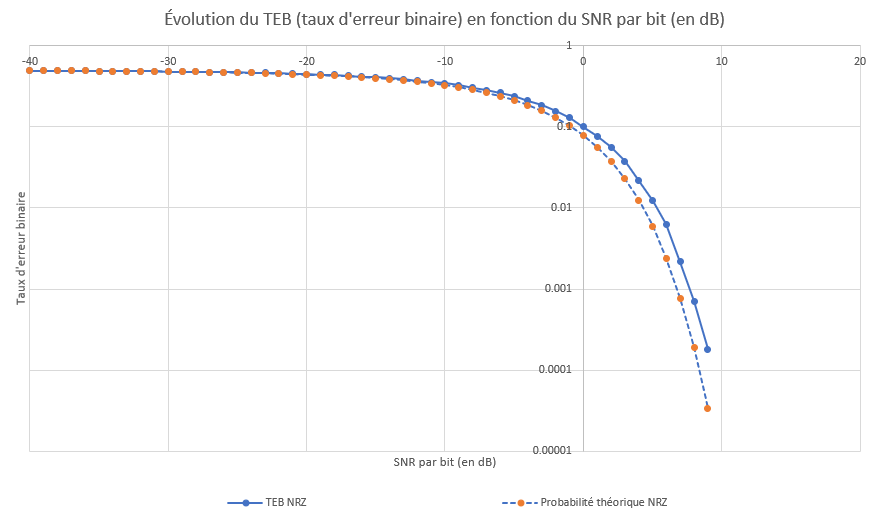
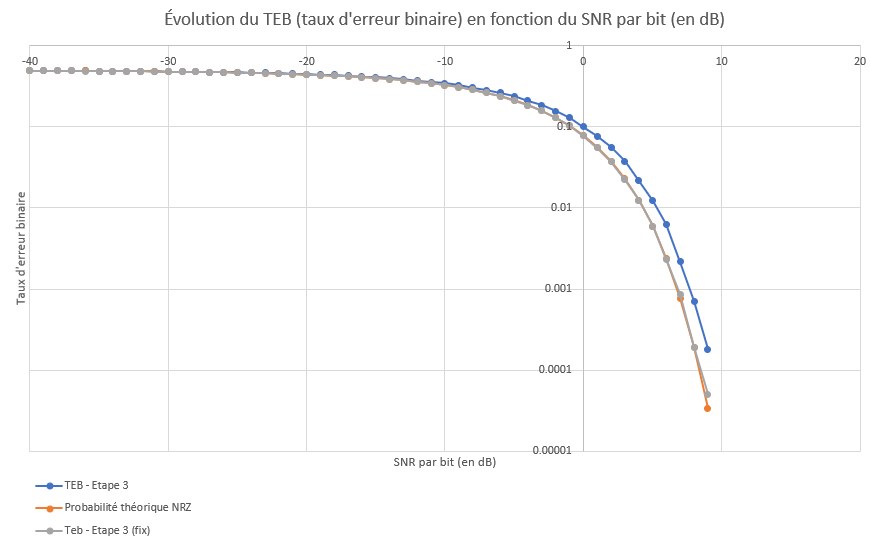
docs: Livrable Tex

diff --git a/livrable/chapters/etape4.tex b/livrable/chapters/etape4.tex
@@ -1,0 +1,158 @@
+\section{TP4 : Transmission non-idéale, avec trajets multiples}
+\sectionmark{TP4 : Transmission non-idéale, avec trajets multiples}
+
+\subsection{Transmission non idéale avec divers bruits réels}
+
+\subsubsection{Introduction}
+
+Dans la continuité des étapes précédentes, l’objectif principal de cette simulation est d'étudier le comportement du système de transmission en lui-même. Cette fois-ci, le transmetteur est bruité selon un ou plusieurs schémas de perturbations aléatoires rencontrées dans la nature. Des modèles physiques de bruit seront considérés à ce stade tels que : trajets-multiples, dispersion chromatique, bruit électronique (thermique, quantique).
+
+
+\begin{figure}[H]
+    \centering
+    \includegraphics[width=0.7\textwidth]{img/etape4a_trajets_multiples.png}
+    \caption{Trajets multiples}
+    \label{fig:trajets_multiples}
+\end{figure}
+
+Nous avons précédemment implémenté une chaîne de transmission composée d'éléments analogiques et logiques, avec des CAN (Convertisseurs Analogique-Numérique) modélisant les codages NRZ, NRZT et RZ. Par la suite, nous avons réalisé des modifications de manière à ajouter bruit blanc additif gaussien (AWGN – Additive white Gaussian noise) au niveau du transmetteur, pour modéliser un comportement plus proche de la réalité. Cette nouvelle étape consistera à implémenter des signaux bruités décalés dans le temps, d'un décalage $\tau$. Cette section aura vocation à présenter les éléments pris en compte, leur implémentation dans le logiciel et une interprétation physique des résultats obtenus.
+
+\subsubsection{Améliorations}
+
+Avant d'aborder les explications concernant nos décisions en matière d'implémentation à l'étape 4, nous souhaitons débuter par un examen des améliorations apportées au code de l'étape 3. Pendant la phase où nous avons tracé les courbes de TEB en fonction du SNR, nous avons constaté que le simulateur était particulièrement lent lors de simulations impliquant un grand nombre de bits. Après avoir analysé notre code, nous avons observé que notre codeur NRZT (qui était le scénario le plus défavorable) avait une complexité algorithmique de l'ordre de $O(n^{3})$, tandis que les autres codeurs que nous avions mis en œuvre avaient des complexités de l'ordre de $O(n^{2})$.
+
+Nous avons fait le choix de réécrire l'ensemble de nos codeurs afin d'obtenir une bien meilleure complexité algorithmique et pouvoir lancer des simulations sur un nombre important de bits. La réécriture des codeurs nous a permis d'atteindre une complexité algorithmique en $O(n)$ sur l'ensemble des codeurs. Cependant, cela n'a pas été une tâche aisée pour tous les codeurs, car nous avons rencontré des difficultés particulières lors de la mise en œuvre du codage NRZT. Plus précisément, les données générées ne présentaient pas les bonnes dimensions, ce qui se traduisait par une récupération incorrecte d'informations en sortie. Un problème est survenu lorsque le nombre d'échantillons par bit n'était pas divisible par 3, ce qui entraînait une perte d'échantillons.
+
+\subsubsection{Réalisation}
+
+\vspace{0,5cm}
+Pour apercevoir les nouvelles implémentations, il faudra utiliser l'option suivante :
+
+Le paramètre \texttt{-ti dt ar} permet l'utilisation d’une transmission analogique multi-trajets (cf . ‘trajets indirects’) :
+     \begin{itemize}
+        \item \texttt{dt} : précise le décalage temporel (en nombre d’échantillons) entre le trajet indirect du signal et le trajet direct
+        \item \texttt{ar} : précise l’amplitude relative du signal du trajet indirect par rapport à celle du signal du trajet direct.
+    \end{itemize}
+
+\vspace{0,5cm}
+Les \texttt{dt} et \texttt{ar} doivent être respectivement une valeur entière et une valeur flottante.
+Plusieurs couples de valeurs (5 au maximum) peuvent être mis après le $\texttt{-ti}$ pour simuler autant de trajets indirects.
+Par défaut le simulateur ne simule pas de trajets indirects, ce qui correspond à des valeurs 0 et 0,0f pour tous les trajets indirects.
+
+La méthodologie à appliquer pour créer un signal bruité (signal blanc gaussien) étant désormais établie, nous pouvons nous focaliser sur sa mise en oeuvre. Pour cela les éléments suivants ont été implémenté :
+
+Une classe java nommé \textbf{TransmetteurMultiTrajet}, qui permet de réaliser plusieurs trajets à l'aide de la méthode \textbf{genererSignalRetarde}, cela ajoute un décalage temporel (\texttt{dt}) pour simuler les trajets multiples avec une amplitude (\texttt{ar}) qui simule l'atténuation du signal. 
+
+Ce n'est qu'après avoir mise en place des trajets multiples que l'on applique le bruit, cela est réalisé dans la classe \textbf{Simulateur}.
+
+Dans notre cas, le récepteur ne connaît pas la valeur de $\tau$ et de $\alpha$, ce qui part la suite va nous poser des problèmes de performance. Si on avait voulu se placer dans un cas idéal, on serait parti du postulat que le récepteur connaissait la valeur de $\tau$ et de $\alpha$.
+
+On pourra sûrement s'attendre à une augmentation du TEB, lors que l'on ajoutera de multiples trajts. Cela est dû à la complexité croissante du signal, à mesure que l'on ajoute des trajets. La moyenne réalisée par le récepteur devient dès lors moins précise, ce qui expliquera l'augmentation du TEB.
+
+
+\begin{figure}[H]
+    \centering
+    \includegraphics[width=\textwidth]{img/etape4a_ti_seul.png}
+    \caption{Visualisation de la simulation NRZT (message de 10 bits avec 100 échantillons par bit) d'un trajet indirect unique sans bruit}
+    \label{fig:etape4a_ti_seul}
+\end{figure}
+
+Nous avons réalisé une simulation d'un signal NRZT de 10 bits, comportant 100 échantillons. En nous basant sur ce que nous avons précédemment simulé à l'étape 2, nous pouvons constater que, du point de vue de la sonde d'émission analogique, chaque changement de valeur d'un bit logique se produit de manière progressive. On observe une pente pour la montée et la descente de chaque symbole. La différence entre la source analogique et la sortie du transmetteur analogique est très nette, et il est évident que notre signal s'est étalé dans le temps. De plus, nous observons un décalage temporel au niveau des pentes. À ce stade, notre signal de sortie du transmetteur reste clairement lisible, car nous n'avons pas encore introduit de bruit.
+
+\begin{figure}[H]
+    \centering
+    \includegraphics[width=\textwidth]{img/etape4a_ti_multiples.png}
+    \caption{Visualisation de la simulation NRZT (message de 10 bits avec 100 échantillons par bit) de plusieurs trajets indirects sans bruit}
+    \label{fig:etape4a_ti_multiples}
+\end{figure}
+
+Nous avons effectué une nouvelle simulation en utilisant les mêmes paramètres que ceux décrits précédemment. La seule modification apportée est l'ajout d'un nouveau signal avec un décalage temporel. Nous observons que plus nous ajoutons de trajets, plus le signal est étalé dans le temps et présente un décalage temporel significatif. Nous pouvons encore clairement distinguer les différents signaux qui ont été additionnés les uns aux autres.
+
+\begin{figure}[H]
+    \centering
+    \includegraphics[width=\textwidth]{img/etape4a_ti_multiples_NRZ.png}
+    \caption{Visualisation de la simulation NRZ (message de 10 bits avec 100 échantillons par bit) de plusieurs trajets indirects sans bruit}
+    \label{fig:etape4a_ti_multiples_NRZ}
+\end{figure}
+
+Nous avons réalisé la simulation d'un signal bruité NRZ de 100 bits et de 100 échantillons. D'après ce que l'on a généré pour l'étape 2, on remarque bien les caractéristique du signal NRZ sur la simulation. En effet, on a bien un signal codé à l'aide de deux états, sans état intermédiaire. Pour ce qui est du transmetteur analogique en sortie, on remarque très clairement l'ajout de plusieurs signaux au signal d'origine. Particulièrement, on peut observer un étalement du symbole dans le temps, ainsi que des variations d'amplitudes pour un même symbole.
+
+\begin{figure}[H]
+    \centering
+    \includegraphics[width=\textwidth]{img/etape4a_ti_multiples_RZ.png}
+    \caption{Visualisation de la simulation RZ (message de 10 bits avec 100 échantillons par bit) de plusieurs trajets indirects sans bruit}
+    \label{fig:etape4a_ti_multiples_RZ}
+\end{figure}
+
+On a réalisé la simulation d'un signal bruité RZ de 100 bits et de 100 échantillons. D'après ce que l'on a déjà simulé à l'étape 2, on observe bien au niveau de la sonde pour l'émission analogique, chaque changement de valeur d'un bit logique est suivi d'un passage par l'état 0. Pour ce qui est du transmetteur analogique en sortie, on remarque très clairement l'ajout de plusieurs signaux au signal d'origine. Particulièrement, on peut observer un étalement du symbole dans le temps, ainsi que des variations d'amplitudes pour un même symbole.
+
+
+\subsection{Transmission non idéale avec divers bruits réels et bruit gaussien}
+
+\begin{figure}[H]
+    \centering
+    \includegraphics[width=\textwidth]{img/etape4b_ti_seul_et_bruit_6_RZ.png}
+    \caption{Résultats de la simulation RZ (message de 100 bits avec 100 échantillons par bit) d'un trajet indirect unique avec un bruit de SNRpb = 6 dB}
+    \label{fig:etape4b_ti_seul_et_bruit_6_RZ}
+\end{figure}
+
+Nous avons effectué la simulation d'un signal RZ bruité composé de 100 bits, de 100 échantillons et avec un rapport signal/bruit (SNR) fixé à 6 dB. Au niveau de la source analogique, nous continuons à observer notre signal présentant les caractéristiques du codage RZ que nous avons précédemment décrites. En ce qui concerne le transmetteur soumis au bruit, on observe que du bruit a été ajouté au signal d'origine. Cette perturbation entraîne des erreurs à la sortie du transmetteur, ce qui se traduit par un taux d'erreur binaire (TEB) de 0,03. Malgré l'ajout d'un trajet, nous constatons que les pertes restent très limitées.
+
+\begin{figure}[H]
+    \centering
+    \includegraphics[width=\textwidth]{img/etape4b_ti_multiples_et_bruit_6_RZ.png}
+    \caption{Résultats de la simulation RZ (message de 100 bits avec 100 échantillons par bit) de multiples trajets indirects  avec un bruit de SNRpb = 6 dB}
+    \label{fig:etape4b_ti_multiples_et_bruit_6_RZ}
+\end{figure}
+
+On observe que le TEB ne varie pas malgré l'ajout de cinq trajets au signal d'origine.
+
+\begin{figure}[H]
+    \centering
+    \includegraphics[width=\textwidth]{img/etape4b_ti_multiples_et_bruit_6_NRZ.png}
+    \caption{Résultats de la simulation NRZ (message de 100 bits avec 100 échantillons par bit) de multiples trajets indirects avec un bruit de SNRpb = 6 dB}
+    \label{fig:etape4b_ti_multiples_et_bruit_6_NRZ}
+\end{figure}
+
+Nous avons effectué la simulation d'un signal NRZ bruité composé de 100 bits, de 100 échantillons et avec un rapport signal/bruit (SNR) fixé à 6 dB. Au niveau de la source analogique, nous continuons à observer notre signal présentant les caractéristiques du codage NRZ que nous avons précédemment décrites. En ce qui concerne le transmetteur soumis au bruit, on observe que du bruit a été ajouté au signal d'origine. Cette perturbation entraîne des erreurs à la sortie du transmetteur, ce qui se traduit par un taux d'erreur binaire (TEB) de 0,02. Malgré l'ajout d'un trajet, nous constatons que les pertes restent très limitées, malgré l'ajout de cinq trajets.
+
+
+\begin{figure}[H]
+    \centering
+    \includegraphics[width=\textwidth]{img/etape4b_ti_multiples_et_bruit_6_NRZT.png}
+    \caption{Résultats de la simulation NRZT (message de 100 bits avec 100 échantillons par bit) de multiples trajets indirects avec un bruit de SNRpb = 6 dB}
+    \label{fig:etape4b_ti_multiples_et_bruit_6_NRZT}
+\end{figure}
+
+Nous réalisons une simulation d'un signal bruité NRZT de 100 bits, de 100 échantillons et avec un SNR fixé à 6 dB. Au niveau de la source analogique, nous avons toujours un signal comportant les caractéristiques d'un codage NRZT, que l'on a décrit précédemment. Pour ce qui est du transmetteur bruité, on remarque très clairement l'ajout de bruit au signal d'origine. Cela va entraîner des erreurs à la sortie du transmetteur, nous constatons que le TEB a une valeur de 0,05, cela correspond à un taux d'erreur de 5$\%$. 
+
+
+
+
+\subsubsection{Conclusion}
+
+Cette étape nous a donc permis d'explorer le comportement du système de transmission en présence de divers types de bruit et de trajets multiples. Nous avons observé les effets de l'ajout de bruit sur des signaux NRZ, RZ et NRZT, en analysant leur performance en termes de taux d'erreur binaire (TEB). Nous avons observé que l’ajout de trajets multiples dans le signal – avec un décalage temporel $\tau$ – provoque un étalement du signal dans le temps. Cela peut entraîner des interférences et des distorsions dans la réception du signal, mais les pertes semblent demeurer assez limitées.
+
+\begin{figure}[H]
+    \centering
+    \includegraphics[width=\textwidth]{img/etape4b_teb_fct_snr_ti.png}
+    \caption{Tracé du TEB en fonction du SNR par bit (semence constante, message de 100000 symboles, 30 échantillons par symbole, et trajet indirect de retard 20 échantillons et d'amplitude 0.4 fois l'amplitude du signal d'origine)}
+    \label{fig:etape4b_teb_fct_snr_ti}
+\end{figure}
+
+
+Grâce à la figure \ref{fig:etape4b_teb_fct_snr_ti} on constate bien le résultat de cette étape : les trajets indirects affectent fortement le récepteur qui ne parvient plus à décoder aussi "bien" le signal d'origine par rapport aux simulations précédentes (sans trajets indirects).
+
+La figure suivante indique le TEB en fonction du SNR pour différents types de simulations, de manière à synthétiser les effets des trajets multiples.
+
+\begin{figure}[H]
+    \centering
+    \includegraphics[width=\textwidth]{img/etape4b_teb_fct_snr_ti_multiples.png}
+    \caption{Tracé du TEB en fonction du SNR par bit (semence constante, message de 100000 symboles, 30 échantillons par symbole, et trajets indirects multiples : 5/0.4 ; 10/0.25 ; 15/0.2 ; 20/0.1 ; 30/0.05)}
+    \label{fig:etape4b_teb_fct_snr_ti_multiples}
+\end{figure}
+
+
+Cela se constate, très logiquement, beaucoup moins quand les trajets indirects ont des amplitudes relatives à l'amplitude de base plus faibles.
+
+Dans la figure \ref{fig:etape4b_teb_fct_snr_ti_multiples} on voit bien que malgré un nombre plus important de trajets indirects (5 au lieu de 1 seul dans la figure \ref{fig:etape4b_teb_fct_snr_ti}), le décalage entre les courbes sans trajet indirect et avec trajets indirects multiples – quelle que soit la forme d'onde – sont plus proches.

diff --git a/livrable/chapters/etape3.tex b/livrable/chapters/etape3.tex
@@ -92,32 +92,22 @@ On obtient alors la valeur de $\sigma$:
 \begin{figure}[H]
     \centering
     \includegraphics[width=0.7\textwidth]{img/etape3_emission_RZ_bruite.png}
-    \caption{Graphe des sondes de la chaîne de transmission pour un message de 100 bits de forme RZ et pour un SNR de 5 }
+    \caption{Graphe des sondes de la chaîne de transmission pour un message de 100 bits de forme RZ et pour un SNR par bit de 5 dB}
     \label{fig:etape_3_RZ_bruite}
 \end{figure}
 
-On réalise la simulation d'un signal bruité RZ de 100 bits et un SNR de 5. D'après ce que l'on a déjà simulé à l'étape 2, on observe bien au niveau de la sonde pour l'émission analogique, chaque changement de valeur d'un bit logique est suivi d'un passage par l'état 0. Pour ce qui est du transmetteur bruité, on remarque très clairement l'ajout de bruit au signal d'origine. Cela va entraîner des erreurs à la sortie du transmetteur, on voit notre TEB a une valeur de 0.06.
-
-\begin{figure}[H]
-    \centering
-    \includegraphics[width=0.7\textwidth]{img/etape3_emission_RZ_bruite.png}
-    \caption{Graphe montrant l'évolution du TEB en fonction du SNR pour un signal RZ }
-    \label{fig:etape_3_RZ_bruite}
-\end{figure}
-
-L'observation que l'on peut faire de ce graphe est que la valeur du TEB va tendre vers 0.5 lorsque l'on a une valeur de SNR augmente dans les négatifs. Au contraire lorsque le SNR augmente dans les positifs, la valeur du TEB diminue, et tend vers 0. Il y a une probabilité assez importante d'avoir une erreur de codage du signal.
-
+On réalise la simulation d'un signal bruité RZ de 100 bits et un SNR de 5. D'après ce que l'on a déjà simulé à l'étape 2, on observe bien au niveau de la sonde pour l'émission analogique, chaque changement de valeur d'un bit logique est suivi d'un passage par l'état 0. Pour ce qui est du transmetteur bruité, on remarque très clairement l'ajout de bruit au signal d'origine. Cela va entraîner des erreurs à la sortie du transmetteur, on voit notre TEB a une valeur de 0,06.
 
 \subsubsection{Émission analogique NRZ d'un signal bruité}
 
 \begin{figure}[H]
     \centering
     \includegraphics[width=0.7\textwidth]{img/etape3_emission_NRZ_bruite.png}
-    \caption{Graphe des sondes de la chaîne de transmission pour un message de 100 bits de forme NRZ et pour un SNR de 5 db}
+    \caption{Graphe des sondes de la chaîne de transmission pour un message de 100 bits de forme NRZ et pour un SNR de 5 dB}
     \label{fig:etape_3_NRZ_bruite}
 \end{figure}
 
-On réalise la simulation d'un signal bruité NRZ de 100 bits et un SNR de 5. D'après ce que l'on a généré pour l'étape 2, on remarque bien les caractéristique du signal NRZ sur la simulation. En effet, on a bien un signal codé à l'aide de deux états, sans état intermédiaire. Pour ce qui est du transmetteur bruité, on remarque très clairement l'ajout de bruit au signal d'origine. Notamment, aux niveaux des amplitudes du signal, on observe une variation importante après l'ajout du bruit. C'est la cause de l'augmentation du TEB, l'ajout de bruit fait parfois dépasser le seuil de détection du symbole, ce qui peut empêcher la récupération du message côté récepteur. Ce phénomène est visible sur la simulation car on obtient un TEB de 0.19.
+On réalise la simulation d'un signal bruité NRZ de 100 bits et un SNR de 5. D'après ce que l'on a généré pour l'étape 2, on remarque bien les caractéristique du signal NRZ sur la simulation. En effet, on a bien un signal codé à l'aide de deux états, sans état intermédiaire. Pour ce qui est du transmetteur bruité, on remarque très clairement l'ajout de bruit au signal d'origine. Notamment, aux niveaux des amplitudes du signal, on observe une variation importante après l'ajout du bruit. C'est la cause de l'augmentation du TEB, l'ajout de bruit fait parfois dépasser le seuil de détection du symbole, ce qui peut empêcher la récupération du message côté récepteur. Ce phénomène est visible sur la simulation car on obtient un TEB de 0,19.
 
 \begin{figure}[H]
     \centering
@@ -136,14 +126,7 @@ L'analyse de la courbe ci-dessus met en évidence une relation significative ent
     \label{fig:etape_3_NRZT_bruite}
 \end{figure}
 
-On réalise la simulation d'un signal bruité NRZT de 100 bits et un SNR de 5. D'après ce que l'on a déjà simulé à l'étape 2, on observe bien au niveau de la sonde pour l'émission analogique, chaque changement de valeur d'un bit logique est réalisé de manière progressive, on voit bien une pente pour la montée et descente du symbole. Pour ce qui est du transmetteur bruité, on remarque très clairement l'ajout de bruit au signal d'origine. Cela va entraîner des erreurs à la sortie du transmetteur, on voit notre TEB a une valeur de 0.167.
-
-\begin{figure}[H]
-    \centering
-    \includegraphics[width=0.7\textwidth]{img/etape3_emission_NRZT_bruite.png}
-    \caption{Tracé du TEB en fonction du SNR par bit (semence constante, message de 100000 symboles, codage TNRZ, 30 échantillons par symbole)}
-    \label{fig:etape_3_NRZT_bruite}
-\end{figure}
+On réalise la simulation d'un signal bruité NRZT de 100 bits et un SNR de 5. D'après ce que l'on a déjà simulé à l'étape 2, on observe bien au niveau de la sonde pour l'émission analogique, chaque changement de valeur d'un bit logique est réalisé de manière progressive, on voit bien une pente pour la montée et descente du symbole. Pour ce qui est du transmetteur bruité, on remarque très clairement l'ajout de bruit au signal d'origine. Cela va entraîner des erreurs à la sortie du transmetteur, on voit notre TEB a une valeur de 0,167.
 
 L'analyse de la courbe ci-dessus met en évidence une relation significative entre le rapport signal sur bruit ($\frac{E_B}{N_0}$) et le taux d'erreur binaire (TEB/BER). En effet, lorsque le rapport signal sur bruit est faible, le TEB augmente considérablement, ce qui reflète la sensibilité du signal à un environnement bruité. À l'inverse, lorsque le SNR est élevé, le bruit a moins d'impact, ce qui se traduit par une réduction du TEB. Il convient d'observer les courbes théoriques de chaque type de modulation et de les comparer aux résultats expérimentaux de notre système.
 

diff --git a/livrable/main.tex b/livrable/main.tex
@@ -144,6 +144,8 @@
 
 \include{chapters/etape3}
 
+\include{chapters/etape4}
+
 \include{chapters/annexes}
 
 \end{document}
